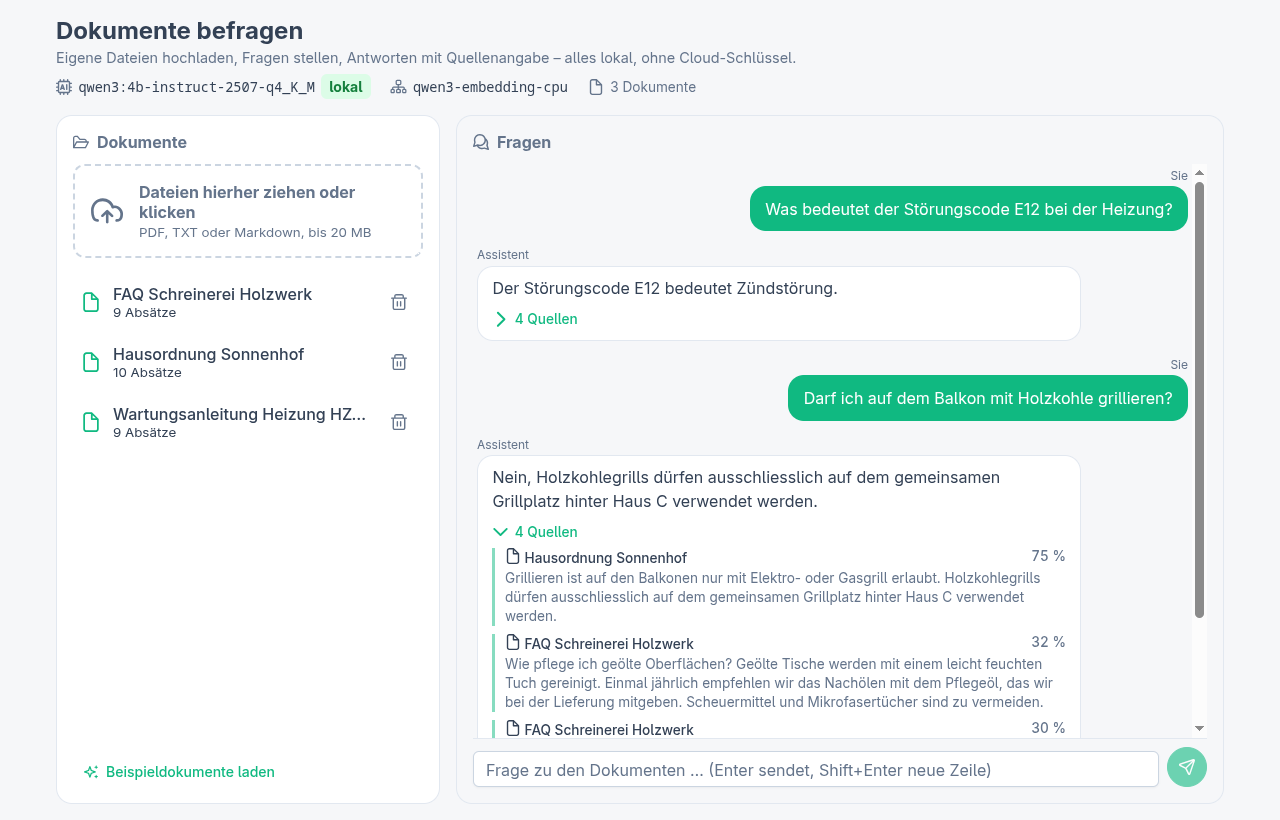
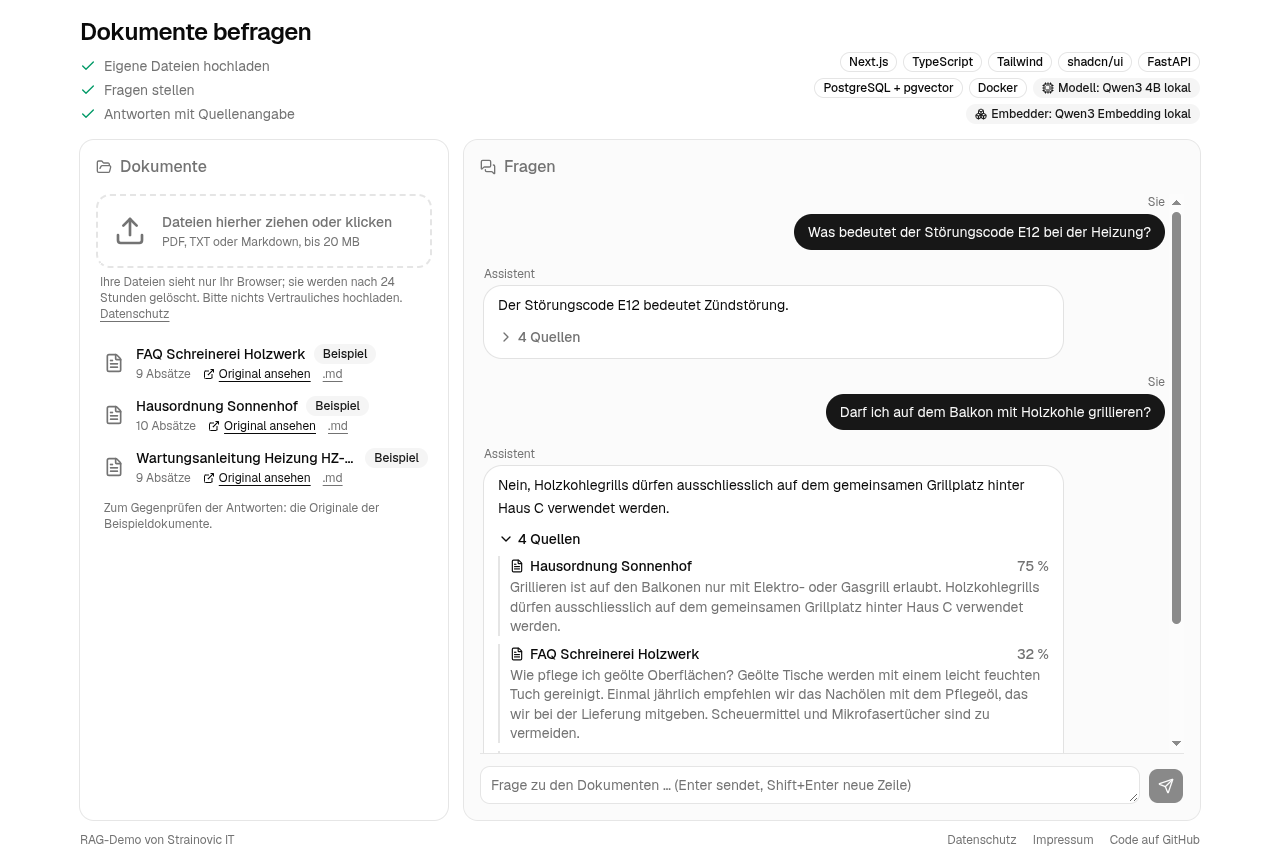
README: Next.js-Stack, Architektur, Beispieldokumente, Grenzen der öffentlichen Demo mit grösster Tagesausgabe, Deploy per tar über ssh; neues Bildschirmfoto

diff --git a/README.md b/README.md
@@ -6,13 +6,24 @@ API-Schlüssel (Ollama) und lässt sich per Umgebungsvariable auf Mistral, OpenA
 jeden anderen OpenAI-kompatiblen Dienst umschalten.
 
 **Live ausprobieren:** https://rag.strainovic-it.ch (läuft auf einer kleinen VM mit
-Mistral als Modell; «Beispieldokumente laden» klicken, dann fragen).
+Mistral als Modell; drei Beispieldokumente sind geladen, einfach fragen).
 
 ![Bildschirmfoto der Demo](docs/demo.png)
 
-Stack: Vue 3 + PrimeVue (TypeScript, Vite), FastAPI (Python), PostgreSQL mit pgvector,
-Ollama, Docker Compose. Retrieval-Augmented Generation (RAG) ohne Framework, damit jeder
-Schritt sichtbar bleibt.
+Stack: Next.js 16 (App Router, React 19, TypeScript strict, Tailwind CSS 4, shadcn/ui),
+FastAPI (Python), PostgreSQL mit pgvector, Ollama, Docker Compose. Retrieval-Augmented
+Generation (RAG) ohne Framework, damit jeder Schritt sichtbar bleibt.
+
+## Architektur
+
+Drei Dienste hintereinander: `web` (Next.js) → `api` (FastAPI) → `db` (PostgreSQL mit
+pgvector); der Browser spricht nur mit `web`. Die Startseite ist eine Server Component, die
+Modell-Info, Dokumentliste und Beispieldateien direkt bei der API holt und fertiges HTML
+liefert; interaktiv sind nur zwei Client Components (Dokumente, Chat), das Löschen läuft als
+Server-Aktion. Alles unter `/api/*` reicht ein Route Handler als Strom an die API weiter
+(`web/src/app/api/[...pfad]/route.ts`, Adresse zur Laufzeit aus `API_URL`), darum kommen
+Uploads ohne Zwischenpuffer an und die Antwort auf `POST /api/frage` als Server-Sent Events
+Stück für Stück beim Browser.
 
 ## Starten
 
@@ -26,9 +37,18 @@ docker compose up --build
 ```
 
 Beim ersten Start lädt der Dienst `ollama-init` die Modelle (ca. 3.2 GB) in das Volume
-`ollama` und meldet «Modelle bereit». Danach: http://localhost:8000 öffnen,
-«Beispieldokumente laden» klicken, Frage stellen. Stoppen mit `docker compose down`
-(Daten und Modelle bleiben in den Volumes).
+`ollama` und meldet «Modelle bereit»; die API lädt danach die Beispieldokumente von selbst.
+Dann http://localhost:3000 öffnen und fragen. Stoppen mit `docker compose down` (Daten und
+Modelle bleiben in den Volumes). Die API-Doku steht unter http://localhost:8000/docs.
+
+## Beispieldokumente
+
+Drei fiktive Texte liegen in `app/beispiele/` (Hausordnung, Wartungsanleitung, FAQ) und
+sind immer geladen: Die API legt sie beim Start an, falls sie fehlen. In der Liste stehen
+sie oben, sind als «Beispiel» markiert und lassen sich nicht löschen. Zu jedem gibt es das
+Original als PDF und Markdown («Original ansehen»), um Antworten gegenzuprüfen. Die PDFs
+erzeugt `uv run python scripts/beispiel_pdfs.py` aus den Markdown-Dateien; sie sind
+eingecheckt.
 
 ## Auf ein Cloud-Modell umschalten
 
@@ -36,7 +56,7 @@ Alle Dienste sprechen das OpenAI-Protokoll (Chat Completions mit Streaming, `/em
 `.env.example` nach `.env` kopieren, Variante wählen, dann ohne Ollama starten:
 
 ```sh
-docker compose up --build db api
+docker compose up --build db api web
 ```
 
 | Variable | lokal (Standard) | Mistral | OpenAI |
@@ -58,6 +78,48 @@ bekommt beim Start eine klare Fehlermeldung und löscht die Daten mit
 `docker volume rm rag-pgvector-beispiel_pgdata`).
 
 Server-Betrieb mit Caddy und Let's Encrypt: `deploy/README.md`.
+
+## Grenzen der öffentlichen Demo
+
+Die Demo läuft ohne Anmeldung, jede Frage und jeder Upload kostet beim Modell-Anbieter.
+Besucher werden über ein anonymes Sitzungs-Cookie getrennt (`rag_sitzung`, zufällige
+Kennung, 30 Tage): Jeder sieht, durchsucht und löscht nur die Beispiele plus die eigenen
+Uploads. Ein neuer Browser oder ein privates Fenster ist ein neuer Besucher, darum gelten
+zusätzlich Tagesgrenzen für alle zusammen. Uploads verfallen nach 24 Stunden.
+
+| Variable | Standard | Wirkung |
+|---|---|---|
+| `LIMIT_FRAGEN_PRO_TAG` | 300 | alle Besucher zusammen, Zähler in der Datenbank, Tageswechsel nach UTC |
+| `LIMIT_FRAGEN_PRO_MINUTE_IP` | 10 | je IP-Adresse (`X-Forwarded-For`, gesetzt von Caddy), im Arbeitsspeicher |
+| `LIMIT_DOKUMENTE_PRO_SITZUNG` | 25 | eigene Dokumente je Besucher; Löschen schafft Platz |
+| `LIMIT_ABSAETZE_PRO_DOKUMENT` | 200 | längere Dokumente werden vor dem Embedding abgelehnt |
+| `LIMIT_UPLOADS_PRO_TAG` | 300 | alle Besucher zusammen |
+| `LIMIT_LEBENSDAUER_STUNDEN` | 24 | danach werden Uploads gelöscht |
+| `LLM_MAX_TOKENS` | 500 | Länge einer Antwort |
+
+Fest im Code: Frage höchstens 500 Zeichen, höchstens 10 Absätze Kontext (`k`), Absatz
+höchstens 1000 Zeichen, Datei höchstens 20 MB. Ist eine Grenze erreicht, antwortet die API
+mit 429 und einer deutschen Meldung, die die Oberfläche als Hinweis zeigt. `GET /api/info`
+nennt `fragen_heute`, `limit_fragen_pro_tag` und `uploads_heute` für einen Tagescheck von
+aussen.
+
+Grösste mögliche Tagesausgabe bei Mistral mit diesen Werten (Preise siehe «Gemessen»,
+gerechnet mit 3 Zeichen je Token):
+
+- Fragen: je Frage höchstens rund 3'700 Token Eingabe (10 Absätze, Frage, Systemprompt)
+  und 500 Token Ausgabe, also 0.00086 $; 300 Fragen: **0.26 $**
+- Uploads: je Dokument höchstens 200 × 1000 Zeichen, rund 67'000 Token, also 0.0067 $;
+  300 Dokumente: **2.00 $**
+- zusammen höchstens rund **2.30 $ pro Tag**; mit dem, was die Oberfläche tatsächlich
+  schickt (4 Absätze, kurze Texte), sind 300 Fragen rund 5 Cent
+
+Die letzte Sicherung liegt beim Anbieter: dort ein Ausgabenlimit für das Konto setzen. Lehnt
+der Anbieter ab (402, 403 oder 429), zeigt die Demo «Monatskontingent beim Modell-Anbieter
+erreicht» statt des rohen Fehlers.
+
+Was die Demo mit Daten tut, steht für Besucher unter `/datenschutz`
+(`web/src/app/datenschutz/page.tsx`); jede Aussage dort beschreibt den Code und gehört bei
+Änderungen an Sitzung, Grenzen oder Protokollen mit angepasst.
 
 ## Gemessen
 
@@ -93,8 +155,10 @@ CPU-Variante entsteht aus `ollama/Modelfile.qwen3-embedding-cpu` (`num_gpu 0`); 
 Init-Container legt sie an. Auf einer GPU mit 8 GB oder mehr kann `EMBED_MODEL` auf
 `qwen3-embedding:0.6b` gesetzt werden.
 
-Speicher der Container (`docker stats`): api 65 MB, db 30 MB, ollama 1.9 GB RAM
-(plus VRAM). Im Server-Betrieb mit Mistral entfällt Ollama.
+Speicher der Container (`docker stats`): web 50 MB (80 MB nach drei Uploads von zusammen
+45 MB), api 65 MB, db 30 MB, ollama 1.9 GB RAM (plus VRAM). Im Server-Betrieb mit Mistral
+entfällt Ollama. `next build` braucht auf 2 Kernen 16 s mit 2 GB und 33 s mit 1.5 GB
+Arbeitsspeicher; mit 1 GB läuft er nicht durch.
 
 Kosten bei Mistral (Preisseite mistral.ai/pricing, Stand 1. Oktober 2026: Mistral Small 4
 0.15 $ / 0.60 $ pro Million Token Eingabe / Ausgabe, mistral-embed 0.10 $ pro Million):
@@ -105,45 +169,50 @@ eine Frage mit vier Absätzen Kontext (ca. 700 Token Eingabe, 50 Token Antwort) 
 
 | Schritt | Umsetzung |
 |---|---|
-| Datei lesen | `app/dateien.py`: PDF per pypdf (Seiten als Absätze), TXT und MD als UTF-8; max. 20 MB |
-| Chunking | `app/chunking.py`: Leerzeilen trennen Absätze, überlange Absätze werden an Satzgrenzen geteilt (max. 1000 Zeichen) |
-| Embedding | `app/embedding.py`: `POST {base}/embeddings` (Ollama, Mistral, OpenAI) oder fastembed lokal; Vektoren normiert, Dimension per `EMBED_DIM` oder Probeanfrage |
-| Speichern | `app/db.py`, `sql/001_schema.sql`: Tabellen `dokumente` und `absaetze`, `embedding vector(N)`, psycopg 3 |
-| Index | HNSW mit `vector_cosine_ops`, Standardparameter |
-| Suche | `ORDER BY embedding <=> $frage LIMIT k`, Score = 1 − Cosinus-Distanz |
+| Datei lesen | `app/dateien.py`: PDF per pypdf (Absätze aus dem Layout, sonst Seiten), TXT und MD als UTF-8; max. 20 MB |
+| Chunking | `app/chunking.py`: Leerzeilen trennen Absätze, überlange Absätze werden an Satzgrenzen geteilt, notfalls an Wortgrenzen (max. 1000 Zeichen) |
+| Embedding | `app/embedding.py`: `POST {base}/embeddings` (Ollama, Mistral, OpenAI), 32 Absätze je Anfrage, oder fastembed lokal; Vektoren normiert, Dimension per `EMBED_DIM` oder Probeanfrage |
+| Speichern | `app/db.py`, `sql/001_schema.sql`: Tabellen `dokumente` (mit `sitzung`, NULL = Beispiel) und `absaetze`, `embedding vector(N)`, psycopg 3 |
+| Index | HNSW mit `vector_cosine_ops`, Standardparameter; `hnsw.iterative_scan = strict_order`, weil die Suche nach Sitzung filtert |
+| Suche | `WHERE sitzung IS NULL OR sitzung = $besucher ORDER BY embedding <=> $frage LIMIT k`, Score = 1 − Cosinus-Distanz |
 | Antwort | `app/llm.py`: Chat Completions mit `stream: true`, deutscher Systemprompt (nur aus den Absätzen antworten, sonst sagen, dass es nicht in den Dokumenten steht, Sprache der Frage) |
-| Oberfläche | `web/`: Vue 3, PrimeVue, marked + DOMPurify; die API liefert den Vite-Build aus |
+| Sitzung und Grenzen | `app/main.py` (Cookie als ASGI-Middleware), `app/grenzen.py` (Tageszähler, Minutenfenster) |
+| Oberfläche | `web/`: Next.js App Router; `app/page.tsx` (Server Component), `components/` (Client Components, shadcn/ui in `components/ui/`), `app/aktionen.ts` (Server-Aktion), `app/api/[...pfad]/route.ts` (Weiterleitung), marked + DOMPurify für die Antworten |
 
 Endpunkte (`app/main.py`, alle unter `/api`, Doku unter `/docs`):
 
 - `POST /dokumente/upload` – Multipart `dateien` (mehrere), → `[{id, titel, anzahl_absaetze}]`
 - `POST /dokumente` – `{titel, text}` als JSON
-- `GET /dokumente` – `[{id, titel, anzahl_absaetze, erstellt}]`
-- `DELETE /dokumente/{id}`
-- `POST /beispiele` – lädt die drei fiktiven Texte aus `app/beispiele/`
+- `GET /dokumente` – `[{id, titel, anzahl_absaetze, erstellt, beispiel}]`, Beispiele zuerst
+- `DELETE /dokumente/{id}` – nur eigene; Beispiel → 403, fremdes Dokument → 404
+- `GET /beispiele` – `[{titel, dateiname, groesse}]`; `GET /beispiele/{dateiname}` – Datei als Download
 - `GET /suche?q=…&k=5` – nur Retrieval
 - `POST /frage` – `{frage, k}` → Server-Sent Events: `quellen` (Liste mit Titel, Absatz, Score), dann `token` je Textstück, `fehler` bei Problemen, `ende`
-- `GET /info` – Modell, Basis-URL, Embedder, Anzahl Dokumente
+- `GET /info` – Modell, Basis-URL, Embedder, Anzahl Dokumente, Zähler des Tages
 
 ## Tests
 
 Backend gegen eine echte Postgres mit pgvector (testcontainers, Docker muss laufen);
 LLM und Embedding-Dienst per `httpx.MockTransport`; der Upload-Test erzeugt die PDF mit
-reportlab. Oberfläche mit Vitest und Vue Test Utils.
+reportlab. Oberfläche mit Vitest und React Testing Library (jsdom), wie es die Next-Doku
+für Unit-Tests beschreibt.
 
 ```sh
-uv sync --all-extras && uv run pytest        # 59 Tests
-cd web && npm ci && npm test                 # 20 Tests
+uv sync --all-extras && uv run pytest                    # 121 Tests
+cd web && npm ci && npm test                             # 62 Tests
+npm run typecheck && npm run lint && npm run build       # tsc --noEmit, ESLint, next build
 ```
 
 Entwicklung ohne Docker-Build: `docker compose up db ollama ollama-init`, dann
 `DATABASE_URL=postgresql://rag:rag@localhost:5432/rag uv run uvicorn --factory
-app.main:app_aus_umgebung` und `cd web && npm run dev` (Vite leitet `/api` weiter).
+app.main:app_aus_umgebung` und `cd web && npm run dev` (ohne `API_URL` spricht Next mit
+`http://localhost:8000`; dafür in `compose.yaml` bei `db` und `ollama` die Ports
+`5432:5432` und `11434:11434` öffnen).
 
-## Grenzen
+## Was fehlt
 
 - kein Reranking, keine hybride Suche (BM25 + Vektor), kein Chunk-Überlapp
-- keine Anmeldung, kein Rate-Limit: wer die Adresse kennt, kann Dokumente laden und löschen
+- keine Anmeldung: die Sitzung ist ein Cookie, kein Konto
 - ein Chat-Verlauf nur im Browser-Tab, keine Nachfragen mit Gesprächskontext
 - PDF-Text nur aus Textebene (keine OCR für Scans)
 - Kontext 2048 Token in Ollama: bei `k` über 5 und sehr langen Absätzen wird gekürzt

diff --git a/deploy/README.md b/deploy/README.md
@@ -4,23 +4,35 @@ Ziel: `https://rag.strainovic-it.ch` auf einer Debian-VM mit 2 Kernen und 3.8 GB
 ohne Ollama. Sprachmodell und Embeddings kommen von Mistral (`mistral-small-latest`,
 `mistral-embed`), TLS von Let's Encrypt über Caddy.
 
-Dienste in `docker-compose.server.yml`: `db` (pgvector, 256 MB), `api` (FastAPI mit
-gebauter Oberfläche, 384 MB), `caddy` (64 MB). Alle mit `restart: unless-stopped`.
+Dienste in `docker-compose.server.yml`, alle mit `restart: unless-stopped`:
+
+| Dienst | Aufgabe | Speicherlimit |
+|---|---|---|
+| `caddy` | TLS, einziger Dienst mit offenen Ports (80, 443), leitet an `web:3000` | 64 MB |
+| `web` | Next.js (Oberfläche, reicht `/api/*` an die API weiter) | 256 MB |
+| `api` | FastAPI, lädt beim Start die Beispieldokumente | 384 MB |
+| `db` | PostgreSQL mit pgvector | 256 MB |
 
 ## Voraussetzungen
 
 - Docker mit Compose v2 auf der VM, Ports 80 und 443 frei und von aussen erreichbar
 - DNS: A-Record `rag.strainovic-it.ch` auf die IP der VM (im Infomaniak-Manager)
-- Mistral-API-Schlüssel (console.mistral.ai)
+- Mistral-API-Schlüssel (console.mistral.ai), im Konto ein Ausgabenlimit gesetzt
+- rund 1.5 GB freier Arbeitsspeicher für den Build (`free -m`): `next build` braucht auf
+  2 Kernen gut eine halbe Minute, mit 1 GB läuft er nicht durch
 
 ## Einrichten
 
-1. Code auf die VM kopieren (ohne node_modules, .git, .venv):
+1. Code auf die VM kopieren. Auf der VM gibt es kein rsync, darum `tar` durch `ssh`. Vorher
+   wird im Zielordner alles ausser der `.env` gelöscht, damit keine Dateien eines früheren
+   Stands liegen bleiben (ein übrig gebliebenes `web/src/*.ts` bricht den Build):
 
    ```sh
-   rsync -az --delete \
-     --exclude node_modules --exclude .git --exclude .venv --exclude web/dist --exclude .env \
-     ~/projects/rag-pgvector-beispiel/ debian@<VM-IP>:/opt/rag-demo/
+   cd ~/projects/rag-pgvector-beispiel
+   ssh debian@<VM-IP> 'mkdir -p /opt/rag-demo && find /opt/rag-demo -mindepth 1 -maxdepth 1 ! -name .env -exec rm -rf {} +'
+   tar czf - --exclude=.git --exclude=.venv --exclude=node_modules --exclude=.next \
+     --exclude=__pycache__ --exclude=.pytest_cache --exclude=.env . \
+     | ssh debian@<VM-IP> 'tar xzf - -C /opt/rag-demo'
    ```
 
 2. Auf der VM die `.env` anlegen, nur für den Besitzer lesbar:
@@ -39,8 +51,11 @@ gebauter Oberfläche, 384 MB), `caddy` (64 MB). Alle mit `restart: unless-stoppe
    chmod 600 /opt/rag-demo/.env
    ```
 
-3. Bauen und starten (das Image baut die Vue-App mit Node und installiert die Python-
-   Abhängigkeiten; erster Build 3–5 Minuten auf 2 Kernen):
+   Die Grenzen der Demo (`LIMIT_*`, `LLM_MAX_TOKENS`) haben Standardwerte und stehen nur in
+   der `.env`, wenn sie abweichen sollen; siehe `.env.example` und das README im
+   Hauptordner.
+
+3. Bauen und starten (zwei Images: API mit Python, Oberfläche mit Node):
 
    ```sh
    cd /opt/rag-demo
@@ -49,29 +64,60 @@ gebauter Oberfläche, 384 MB), `caddy` (64 MB). Alle mit `restart: unless-stoppe
    ```
 
    Die API meldet beim Start `LLM mistral-small-latest @ https://api.mistral.ai/v1,
-   Embedder mistral-embed`. Caddy holt das Zertifikat, sobald der DNS-Eintrag zeigt.
+   Embedder mistral-embed` und lädt die drei Beispieldokumente, falls sie fehlen. Caddy
+   holt das Zertifikat, sobald der DNS-Eintrag zeigt.
 
 4. Prüfen:
 
    ```sh
    curl -s https://rag.strainovic-it.ch/api/info
+   curl -sN -X POST https://rag.strainovic-it.ch/api/frage \
+     -H 'Content-Type: application/json' -d '{"frage":"Wann ist Nachtruhe?"}'
    ```
+
+   `/api/info` nennt Modell, `fragen_heute`, `limit_fragen_pro_tag` und `uploads_heute`;
+   die zweite Anfrage muss die Antwort Stück für Stück ausgeben, nicht am Ende auf einmal.
 
 ## Aktualisieren
 
+Schritt 1 wiederholen, dann:
+
 ```sh
-rsync ... (wie oben)
-ssh debian@<VM-IP> 'cd /opt/rag-demo && docker compose --env-file .env -f deploy/docker-compose.server.yml up -d --build'
+ssh debian@<VM-IP> 'cd /opt/rag-demo \
+  && docker compose --env-file .env -f deploy/docker-compose.server.yml up -d --build --remove-orphans \
+  && docker compose --env-file .env -f deploy/docker-compose.server.yml restart caddy'
 ```
 
-Die Datenbank bleibt im Volume `pgdata`. Wer den Embedder wechselt (andere Dimension),
-muss die Daten löschen: `docker compose --env-file .env -f deploy/docker-compose.server.yml down -v`.
+`restart caddy` ist nötig, weil die Caddyfile als einzelne Datei eingebunden ist: der
+laufende Container sieht eine ersetzte Datei erst nach dem Neustart.
+
+Die Datenbank bleibt im Volume `deploy_pgdata`, die Zertifikate in `deploy_caddy_data`. Das
+Schema zieht die API beim Start selbst nach. Dokumente ohne Sitzung, die kein
+Beispieldokument sind, entfernt sie dabei: ohne Besitzer wären sie für alle sichtbar und
+nicht löschbar.
+
+Wer den Embedder wechselt (andere Dimension), muss die Daten löschen, ohne die Zertifikate
+anzufassen:
+
+```sh
+cd /opt/rag-demo
+docker compose --env-file .env -f deploy/docker-compose.server.yml down
+docker volume rm deploy_pgdata
+docker compose --env-file .env -f deploy/docker-compose.server.yml up -d
+```
 
 ## Hinweise
 
 - `.env` darf nie ins Repo; `deploy/` enthält nur Vorlagen.
-- Die Demo hat keine Anmeldung. Wer die Adresse kennt, kann Dokumente hochladen und
-  löschen und verursacht Mistral-Kosten (siehe README im Hauptordner, Abschnitt Kosten).
-  Für eine öffentliche Demo empfiehlt sich `basic_auth` in der Caddyfile.
-- Caddy leitet Server-Sent Events ungepuffert weiter (`flush_interval -1`), sonst käme
-  die Antwort erst am Ende auf einmal.
+- Die Demo hat keine Anmeldung. Besucher sind per Cookie getrennt, Grenzen pro Tag, pro
+  Minute und IP und pro Besucher deckeln die Kosten (README im Hauptordner, Abschnitt
+  «Grenzen der öffentlichen Demo»).
+- Die Grenze je IP hängt an `X-Forwarded-For`. Caddy setzt den Header auf die Adresse des
+  Besuchers und verwirft, was der Browser mitschickt; Next reicht ihn unverändert weiter.
+  Darum darf ausser Caddy kein Dienst von aussen erreichbar sein.
+- Protokolle: Caddy hat keine `log`-Direktive, uvicorn läuft mit `--no-access-log`, Next
+  schreibt keine Zugriffe. Übrig bleiben Fehlermeldungen; die von Caddy enthalten die
+  IP-Adresse der betroffenen Anfrage. Jeder Dienst behält höchstens 3 × 5 MB. So steht es
+  in der Datenschutzerklärung der Demo (`/datenschutz`).
+- Caddy leitet Server-Sent Events ungepuffert weiter (`flush_interval -1`) und weist
+  Anfragen über 25 MB ab (`request_body`).
